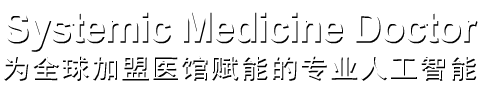
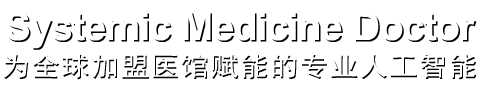
headline微调

diff --git a/content/_index.md b/content/_index.md
@@ -3,7 +3,9 @@ title: "Human Health Plan"
 description: ""
 ---
 
+<div class="flex justify-center"><img src="/headline1.png" style="margin-top:0px; margin-bottom:0px;"></div>
 
+<div style="margin-top:-10px; margin-bottom:15px;">Professional Artificial Intelligence Empowering Global Franchise Medical Clinics</div>
 
 <div style="width: 100%; text-align: center; background-color: rgba(4, 18, 1, 0.4); padding: 1px; margin-bottom: 7px; border-radius: 20px; letter-spacing: 0px; 
 color:inherit; line-height: 2; opacity: 0.5;">Project's Three Core Logics</div>
